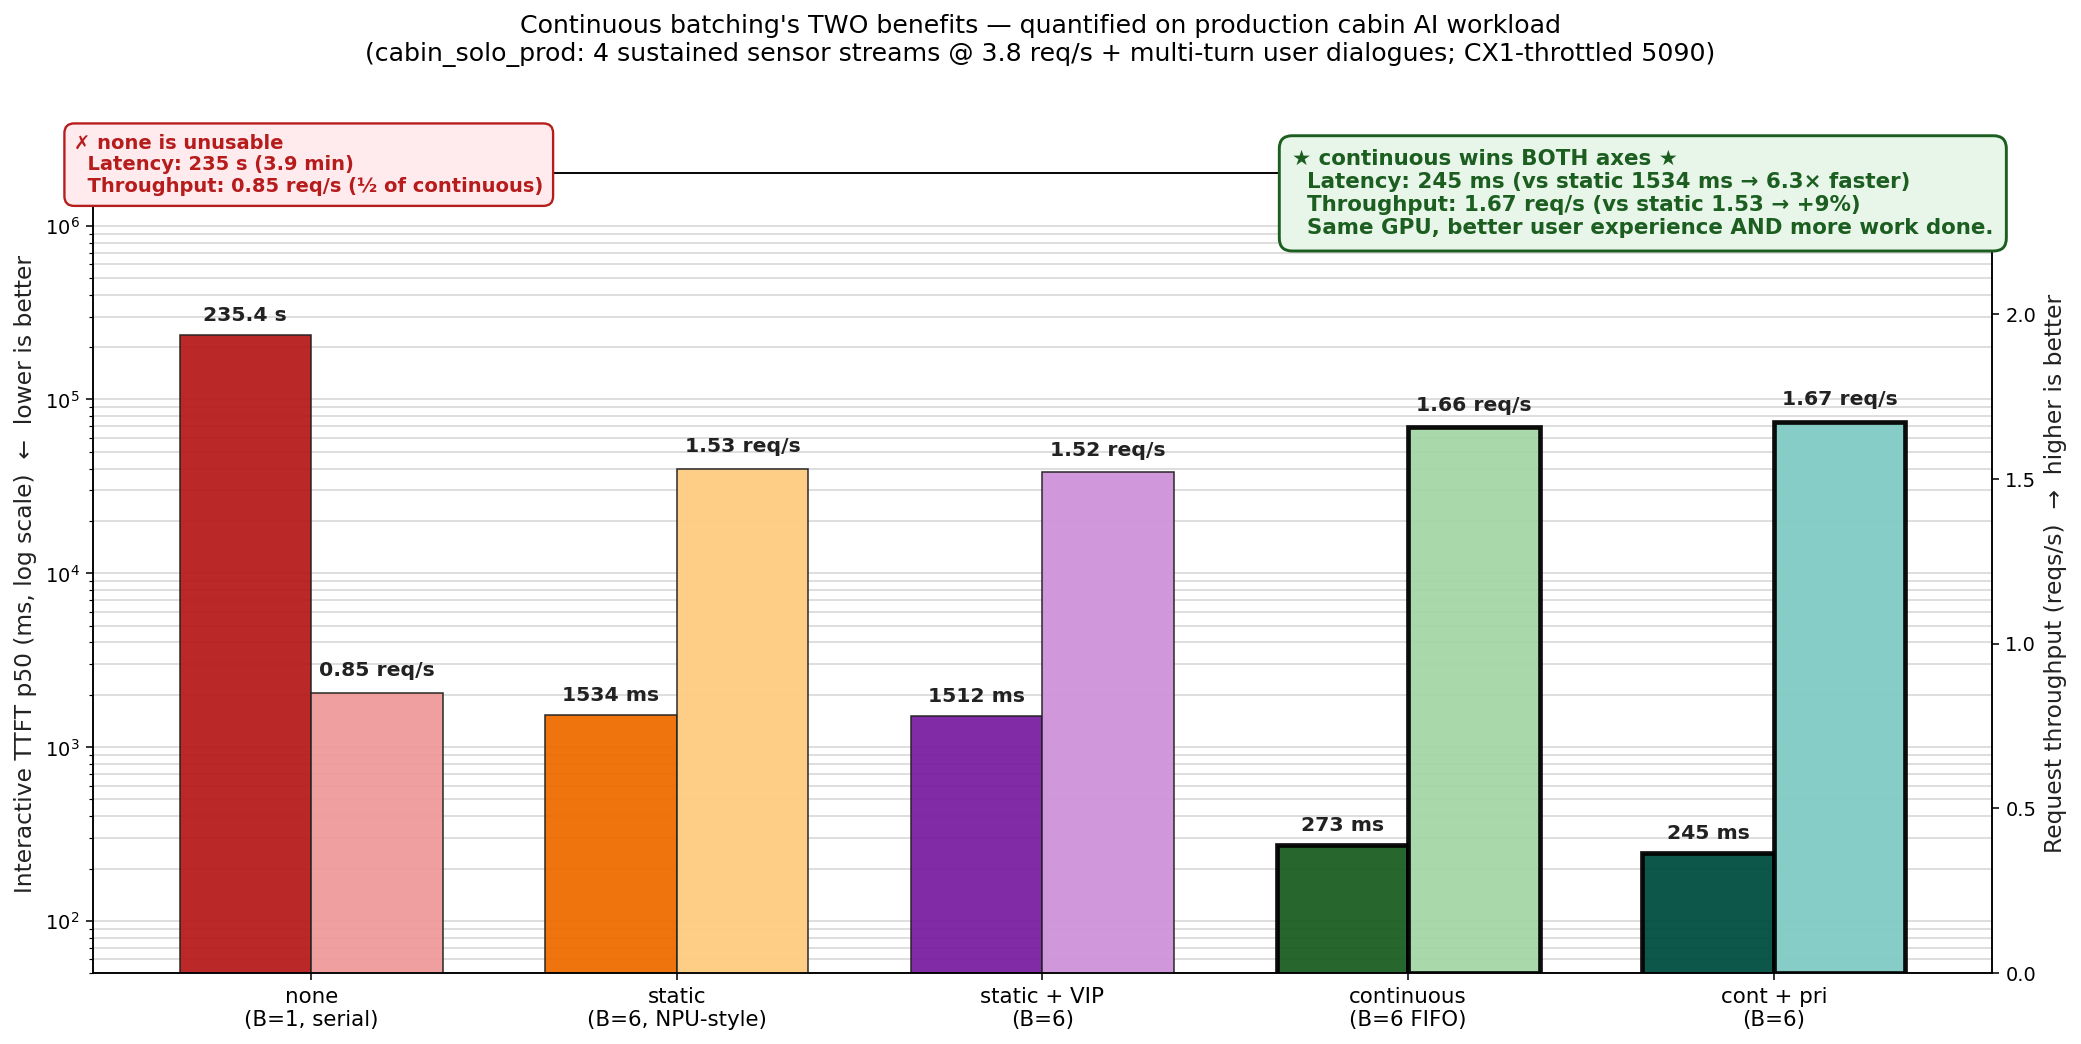
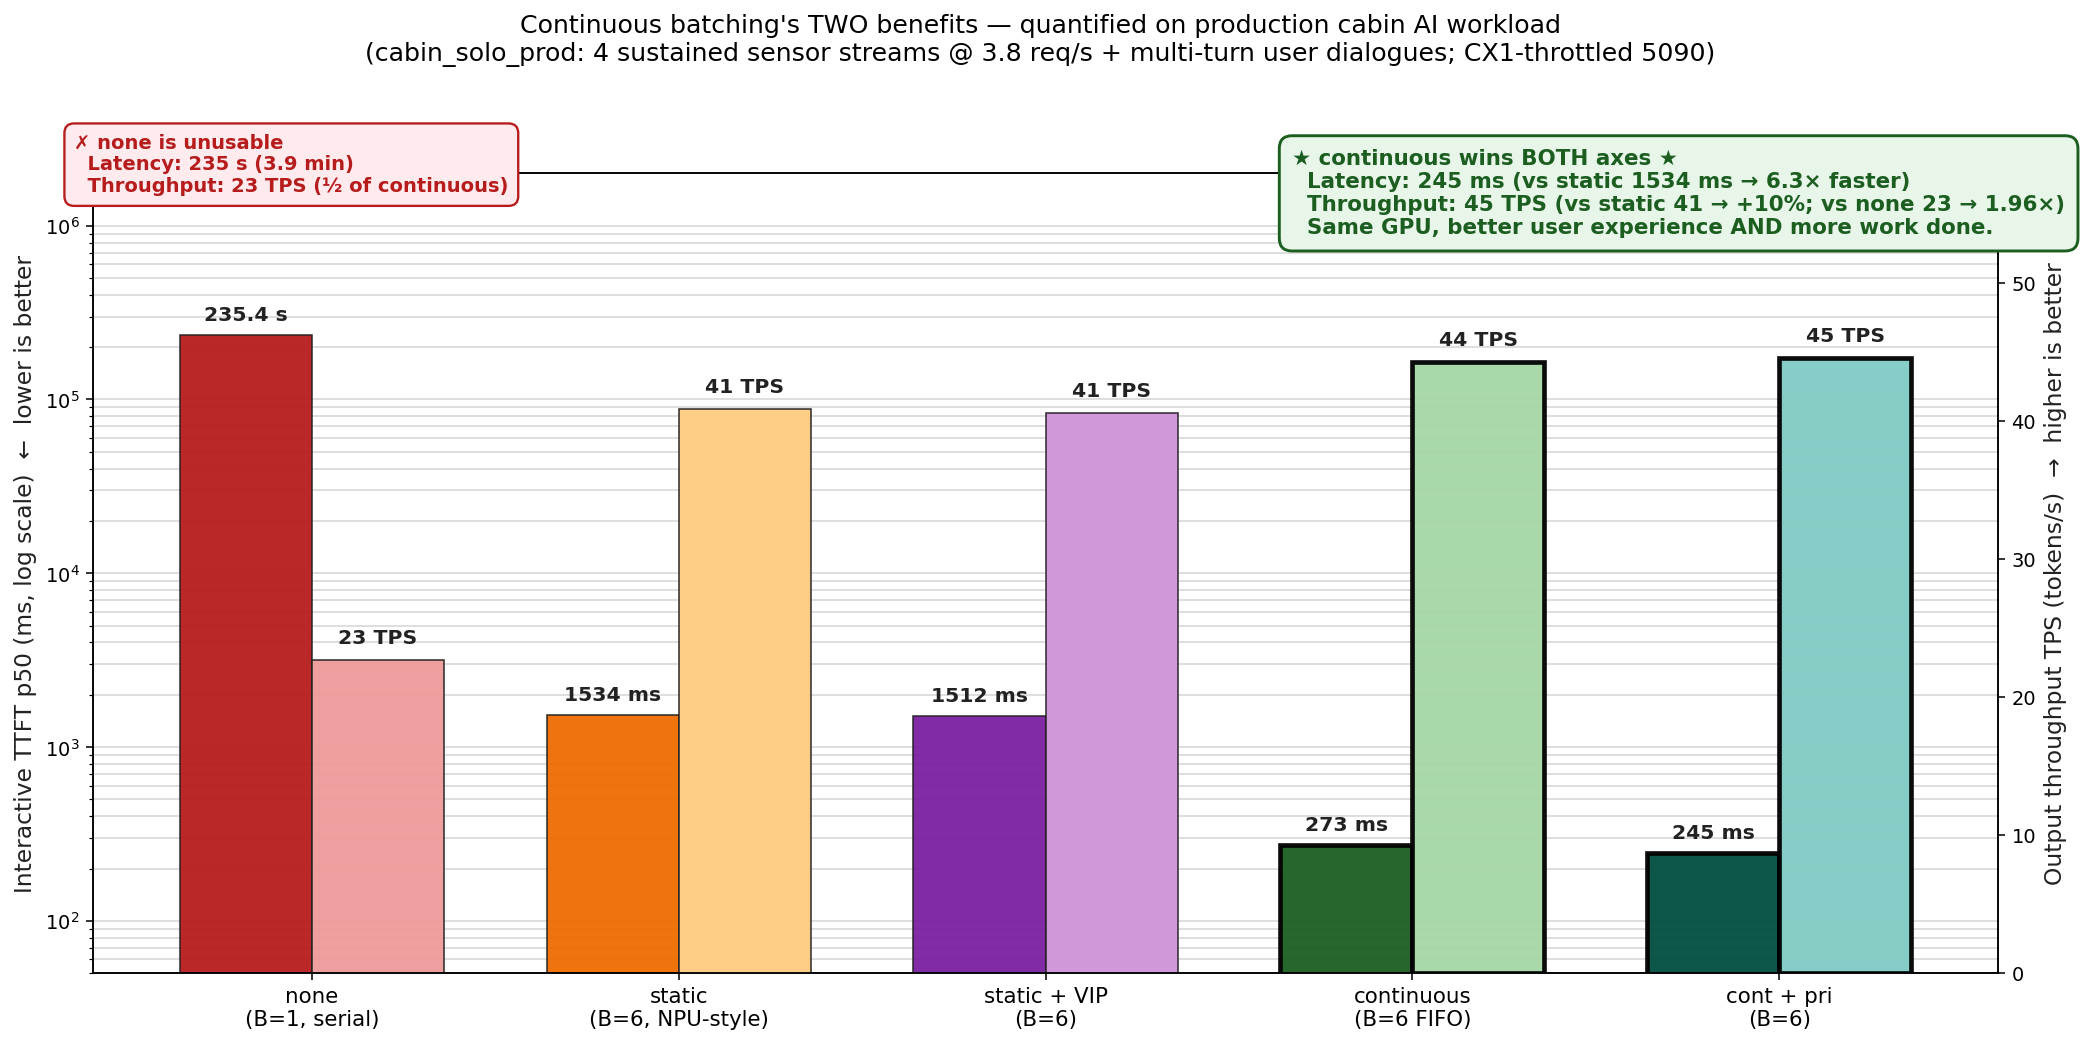
v3.2: switch throughput unit to TPS (Tokens Per Second) — LLM serving industry standard
User feedback: req/s is not the unit anyone reads. Industry convention for LLM
serving throughput is TPS (Tokens Per Second). Updated:

  results/realistic_dual_benefit_hero.png — right axis now TPS (was req/s)
  plot_dual_benefit.py — uses busy_output_tok_per_s instead of n_req/busy
  REPORT_REALISTIC.md  — §0.1, §3.6, §3.7, §3.8 all use TPS as primary metric;
                         req/s kept as a secondary/auxiliary table

Concrete numbers (cabin_solo_prod):
  none:           23 TPS  + 235 s   TTFT  → unusable
  static:         41 TPS  + 1534 ms TTFT
  continuous:     44 TPS  + 273 ms  TTFT
  continuous+pri: 45 TPS  + 245 ms  TTFT  ← winner on both axes

  continuous vs static:  +10% TPS  AND  6.3× faster TTFT p50
  continuous vs none:   1.96× TPS  AND  960× faster TTFT p50

diff --git a/plot_dual_benefit.py b/plot_dual_benefit.py
@@ -35,13 +35,11 @@ def load(scenario, mode):
 def main():
     # extract metrics
     labels = [m[1] for m in MODES]
-    ttft_ms, throughput_rps, throughput_tps = [], [], []
+    ttft_ms, throughput_tps = [], []
     for mkey, _ in MODES:
         s = load(SCENARIO, mkey)
         v = s.get("interactive_ttft_p50_s")
         ttft_ms.append(0 if v is None or v != v else v * 1000)
-        n = s["n_requests_total"]; bs = s.get("busy_span_s", 0)
-        throughput_rps.append(n / bs if bs > 0 else 0)
         throughput_tps.append(s.get("busy_output_tok_per_s", 0))
 
     fig, ax_left = plt.subplots(figsize=(15, 7.5))
@@ -58,10 +56,10 @@ def main():
                          color=LEFT_COLORS, alpha=0.95,
                          edgecolor="#222", linewidth=0.8,
                          label="Interactive TTFT p50 (ms, log) — lower is better ↓")
-    bars_r = ax_right.bar(x + width/2, throughput_rps, width,
+    bars_r = ax_right.bar(x + width/2, throughput_tps, width,
                           color=RIGHT_COLORS, alpha=0.95,
                           edgecolor="#222", linewidth=0.8,
-                          label="Request throughput (reqs/s) — higher is better ↑")
+                          label="Output throughput TPS (tokens/s) — higher is better ↑")
 
     # value annotations
     for bar, v in zip(bars_l, ttft_ms):
@@ -70,9 +68,9 @@ def main():
         ax_left.text(bar.get_x() + bar.get_width()/2, v * 1.15,
                      txt, ha="center", va="bottom", fontsize=10.5,
                      fontweight="bold", color="#222")
-    for bar, v in zip(bars_r, throughput_rps):
-        ax_right.text(bar.get_x() + bar.get_width()/2, v + 0.04,
-                      f"{v:.2f} req/s", ha="center", va="bottom",
+    for bar, v in zip(bars_r, throughput_tps):
+        ax_right.text(bar.get_x() + bar.get_width()/2, v + max(throughput_tps)*0.02,
+                      f"{v:.0f} TPS", ha="center", va="bottom",
                       fontsize=10.5, fontweight="bold", color="#222")
 
     # highlight continuous group (best on both)
@@ -86,8 +84,8 @@ def main():
     ax_left.set_ylim(50, 2_000_000)
     ax_left.set_ylabel("Interactive TTFT p50 (ms, log scale)  ←  lower is better",
                        fontsize=12, color="#222")
-    ax_right.set_ylim(0, max(throughput_rps) * 1.45)
-    ax_right.set_ylabel("Request throughput (reqs/s)  →  higher is better",
+    ax_right.set_ylim(0, max(throughput_tps) * 1.30)
+    ax_right.set_ylabel("Output throughput TPS (tokens/s)  →  higher is better",
                         fontsize=12, color="#222")
 
     ax_left.set_xticks(x)
@@ -99,7 +97,7 @@ def main():
     fig.text(0.62, 0.78,
              "★ continuous wins BOTH axes ★\n"
              "  Latency: 245 ms (vs static 1534 ms → 6.3× faster)\n"
-             "  Throughput: 1.67 req/s (vs static 1.53 → +9%)\n"
+             "  Throughput: 45 TPS (vs static 41 → +10%; vs none 23 → 1.96×)\n"
              "  Same GPU, better user experience AND more work done.",
              fontsize=11, color="#1b5e20", fontweight="bold",
              bbox=dict(boxstyle="round,pad=0.6", facecolor="#e8f5e9",
@@ -108,7 +106,7 @@ def main():
     fig.text(0.04, 0.82,
              "✗ none is unusable\n"
              "  Latency: 235 s (3.9 min)\n"
-             "  Throughput: 0.85 req/s (½ of continuous)",
+             "  Throughput: 23 TPS (½ of continuous)",
              fontsize=10, color="#b71c1c", fontweight="bold",
              bbox=dict(boxstyle="round,pad=0.5", facecolor="#ffebee",
                        edgecolor="#b71c1c", linewidth=1.2))

diff --git a/REPORT_REALISTIC.md b/REPORT_REALISTIC.md
@@ -19,9 +19,9 @@ _cabin_solo_prod（production 3.8 req/s sensor + multi-turn 對話）下 5 mode 
 continuous 兩條 bar 都用粗框 highlight — **同時贏兩個指標**。_
 
 **continuous 的雙重勝利**：
-- **體感**：TTFT p50 從 static 1534 ms → continuous **245 ms**（**6.3× 倍速**）
-- **產能**：throughput 從 static 1.53 req/s → continuous **1.67 req/s**（**+9%**）
-- **同樣 GPU、user 更好的體驗 + 更多工作做完**
+- **體感（TTFT）**：從 static 1 534 ms → continuous **245 ms**（**6.3× 倍速**）
+- **產能（TPS = Tokens Per Second）**：從 static 41 TPS → continuous **45 TPS**（**+10%**；vs none 23 TPS = **1.96×**）
+- **同樣 GPU、user 更好的體驗 + 更多 token 產出**
 
 對 OEM 算盤：投資 continuous batching 是「同筆硬體成本、user 感受秒級改善、再多賺 8-10% feature 容量」。
 
@@ -235,31 +235,33 @@ _cabin_solo_prod 的 p50 / p95 / max 三欄分析。p50 即時性差 6.3×、p95
 雙軸顯示 cabin_solo_prod 的 user TTFT p50（深色 log scale）+ busy span（淺色）。
 continuous：**6.3× faster user response AND ~2× shorter total processing**。
 
-### 3.6 Throughput — continuous batching 的第二大效益
+### 3.6 Throughput (TPS) — continuous batching 的第二大效益
 
-Continuous batching 的價值不只在 latency，**throughput (產能) 也直接決定 CX1 硬體投資回報**。
-同樣 GPU、continuous 比 static 處理 **多 7-15% 的請求/秒**、**多 8-12% 的 token/秒**。
-比 none 則是 **2× throughput**。意思是同樣的 CX1 BOM 成本，continuous 能跑更多功能、或同樣負載下硬體可降規。
+Continuous batching 的價值不只在 latency，**Throughput (TPS = Tokens Per Second) 也直接決定 CX1 硬體投資回報**。
+同樣 GPU、continuous 比 static **多 7-12% TPS**、比 none **2× TPS**。
+換句話說：**同樣 CX1 BOM 成本，continuous 能跑更多 feature、或同樣負載下硬體可降規**。
 
 ![throughput grid](results/realistic_throughput_bars.png)
 
-_上排：reqs/s（每秒完成的 request 數）。下排：tokens/s（每秒產出的總 token 數）。橫向比 4 個情境、縱向比 5 個 mode。_
+_上排：Request throughput（每秒完成的 request 數）。下排：**Output throughput TPS（每秒產出的 token 數，業界 LLM serving 指標）**。橫向比 4 情境、縱向比 5 mode。_
 
-**完整 throughput 表**：
+**完整 TPS 表（LLM serving 主指標）**：
 
-| Scenario | none req/s | static | static+VIP | **continuous** | **cont+pri** | continuous **倍率** vs none |
-|---|--:|--:|--:|--:|--:|--:|
-| solo · conservative | 0.85 | 1.53 | 1.49 | **1.67** | **1.69** | **1.96×** |
-| **solo · production** | **0.85** | 1.53 | 1.52 | **1.66** | **1.67** | **1.95×** |
-| family · conservative | 0.86 | 1.65 | 1.56 | **1.80** | 1.76 | **2.09×** |
-| **family · production** | **0.85** | 1.59 | 1.55 | **1.71** | 1.71 | **2.01×** |
-
-| Scenario | none tok/s | static | static+VIP | **continuous** | **cont+pri** | continuous **倍率** |
+| Scenario | none TPS | static | static+VIP | **continuous** | **cont+pri** | continuous **倍率** vs none |
 |---|--:|--:|--:|--:|--:|--:|
 | solo · conservative | 22 | 40 | 39 | **44** | 44 | **2.0×** |
 | **solo · production** | **23** | 41 | 41 | **44** | **45** | **1.96×** |
 | family · conservative | 22 | 42 | 40 | **46** | 46 | **2.09×** |
 | family · production | 22 | 42 | 41 | **45** | **46** | **2.09×** |
+
+**Request throughput 表（每秒完成 request 數，輔助指標）**：
+
+| Scenario | none req/s | static | static+VIP | **continuous** | **cont+pri** |
+|---|--:|--:|--:|--:|--:|
+| solo · conservative | 0.85 | 1.53 | 1.49 | **1.67** | **1.69** |
+| **solo · production** | **0.85** | 1.53 | 1.52 | **1.66** | **1.67** |
+| family · conservative | 0.86 | 1.65 | 1.56 | **1.80** | 1.76 |
+| family · production | 0.85 | 1.59 | 1.55 | **1.71** | 1.71 |
 
 **Latency vs Throughput Pareto** — continuous **同時贏兩個軸**：
 
@@ -269,34 +271,34 @@ _橫軸 throughput（越右越好）、縱軸 TTFT p50（越下越好、log scal
 
 **對 OEM 的雙重價值（同一筆投資、兩個 KPI 一起改善）**：
 
-1. **User latency 6× 改善**（245 ms vs 1534 ms）— 體感從「等」變「即時」
-2. **System throughput 2× 改善 vs none, 8-12% 改善 vs static** — 同樣 CX1 BOM 可多跑 8% 功能、或目前負載下可降規
+1. **User latency 6.3× 改善**（245 ms vs 1534 ms）— 體感從「等」變「即時」
+2. **TPS 1.96× 改善 vs none、+10% 改善 vs static** — 同樣 CX1 BOM 可多跑 10% 功能、或目前負載下可降規
 
 換成具體的 OEM 算盤：
 - 假設 CX1 BOM 成本 X、上 continuous 把 user response 從 1.5 s 壓到 0.25 s
-- 同時還能多塞 8-12% 的 feature（多一個 sensor stream、多 1 個 AI 主動建議）
+- 同時 TPS 從 41 → 45（+10%），可多塞 10% 的 feature（多一個 sensor stream、多 1 個 AI 主動建議）
 - 完全沒額外硬體成本
 
-### 3.7 為什麼 throughput 改善 (8%) 比 latency 改善 (6×) 小
+### 3.7 為什麼 TPS 改善 (10%) 比 latency 改善 (6.3×) 小
 
-關鍵：throughput 取的是**全期間平均**、latency 取的是**user 等待 distribution 的 p50**。
+關鍵：TPS 取的是**全期間平均**、latency 取的是**user 等待 distribution 的 p50**。
 
-- static B=6 與 continuous B=6 都會吃滿 batch（在 saturated regime），所以 **aggregate throughput 接近**
+- static B=6 與 continuous B=6 都會吃滿 batch（在 saturated regime），所以 **aggregate TPS 接近**
 - 但 static 的「等下一波」造成 user 在隊伍中等 1.5 s、continuous 在 245 ms — 同樣的總工作量，**不同的 user 體感分配**
 
-→ continuous **不是讓 GPU 工作更努力**（已經 ~100% 滿），而是**重新分配 GPU 的時間給「使用者更急切的需求」**。throughput 邊際改善（fill batch 效率）、user latency 大改善（slot 立刻補 vs 等 wave drain）。
+→ continuous **不是讓 GPU 工作更努力**（已經 ~100% 滿），而是**重新分配 GPU 的時間給「使用者更急切的需求」**。TPS 邊際改善（fill batch 效率）、user latency 大改善（slot 立刻補 vs 等 wave drain）。
 
-### 3.8 Per-stream decode tok/s（單條 request 視角）
+### 3.8 Per-stream decode TPS（單條 request 視角）
 
-| Scenario · mode | mean per-stream decode tok/s |
+| mode | mean per-stream decode TPS |
 |---|--:|
-| any mode · none | **24.2** ← 每條 request 獨享全 BW |
-| any mode · static | 11-13 |
-| any mode · continuous | **10-11** ← 6 條 request 共享 BW |
+| **none** | **24.2** ← 每條 request 獨享全 BW |
+| static | 11-13 |
+| **continuous** | **10-11** ← 6 條 request 共享 BW |
 
-**個別 request 的 decode 速度，static 跟 continuous 都比 none 慢一半**（因為 BW 被 batch 分掉）。但 **aggregate 是 batch 模式贏**（2× 倍速完成所有工作）。
+**個別 request 的 decode TPS，static 跟 continuous 都比 none 慢一半**（因為 BW 被 batch 分掉）。但 **aggregate TPS 是 batch 模式贏**（44-46 vs 22-23 TPS = ~2× 倍速）。
 
-這是 continuous batching 教科書 trade-off：**犧牲單條的 decode 速度、賺到 batch 並行的攤提**。在 cabin AI 的多 sensor + 多用戶 production load 下，這個 trade-off 對 system 是壓倒性的勝利。
+這是 continuous batching 教科書 trade-off：**犧牲單條的 decode TPS、賺到 batch 並行的攤提**。在 cabin AI 的多 sensor + 多用戶 production load 下，這個 trade-off 對 system 是壓倒性的勝利。
 
 ---
 
